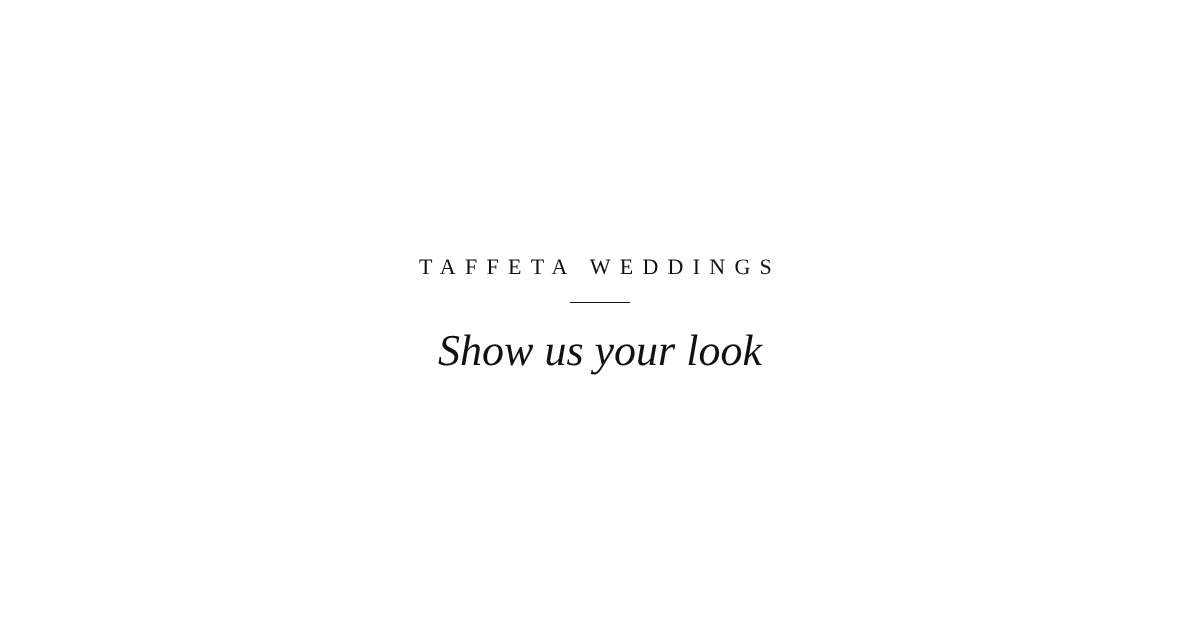
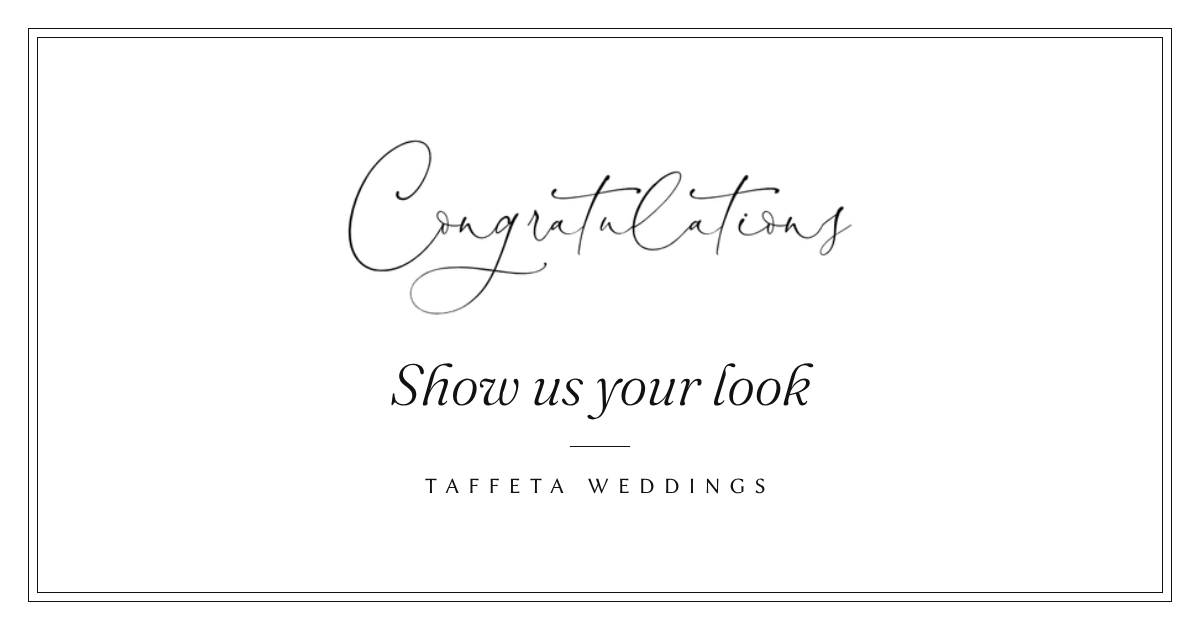
Fix bride link preview pictures (the script picture was missing)
Claude-Session: https://claude.ai/code/session_01RKeJJPKyB36ZQWEKDo5cbh

diff --git a/bride/index.html b/bride/index.html
@@ -8,7 +8,7 @@
 <meta property="og:site_name" content="Taffeta Weddings">
 <meta property="og:type" content="website">
 <meta property="og:url" content="https://prettyteam.taffetadesign.com/bride/">
-<meta property="og:image" content="https://prettyteam.taffetadesign.com/bride/card.png">
+<meta property="og:image" content="https://prettyteam.taffetadesign.com/bride/card.png?v=2">
 <meta property="og:image:width" content="1200"><meta property="og:image:height" content="630">
 <meta name="twitter:card" content="summary_large_image">
 <link rel="icon" href="../weddings/icon-192.png"><link rel="apple-touch-icon" href="../weddings/apple-touch-icon.png">
